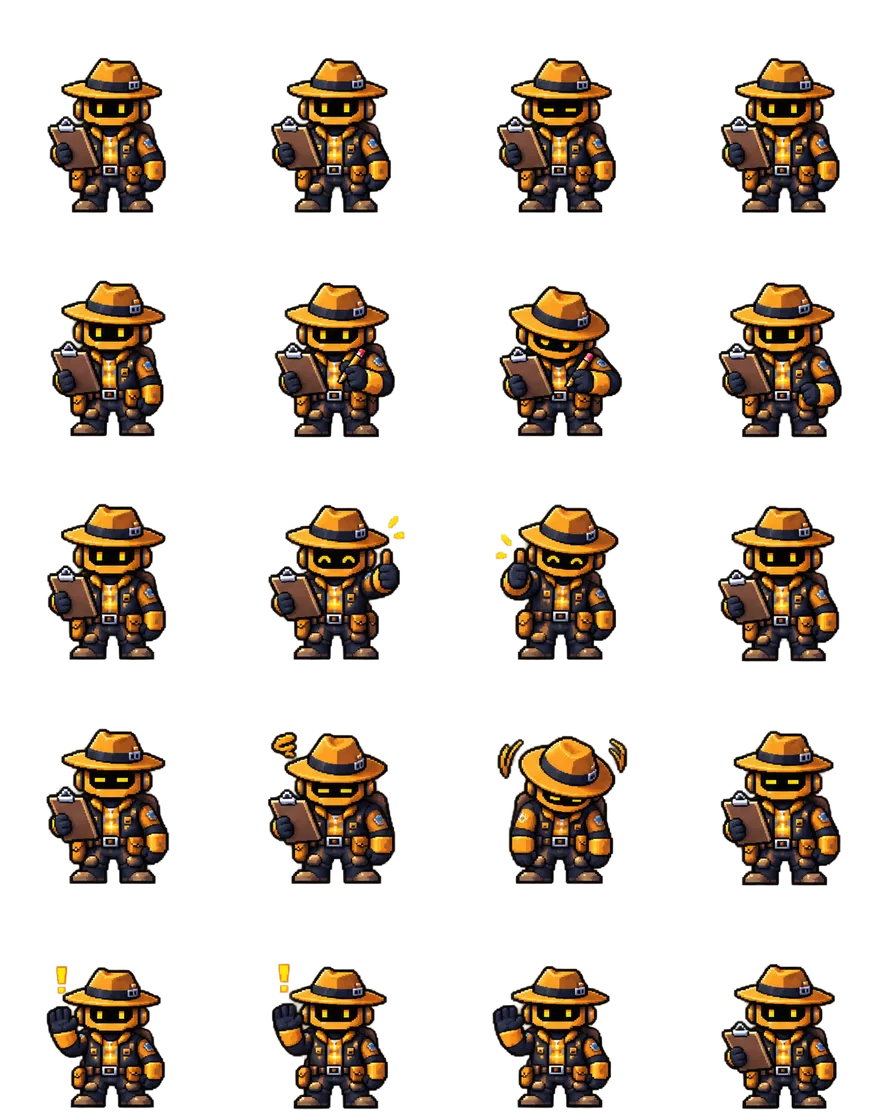
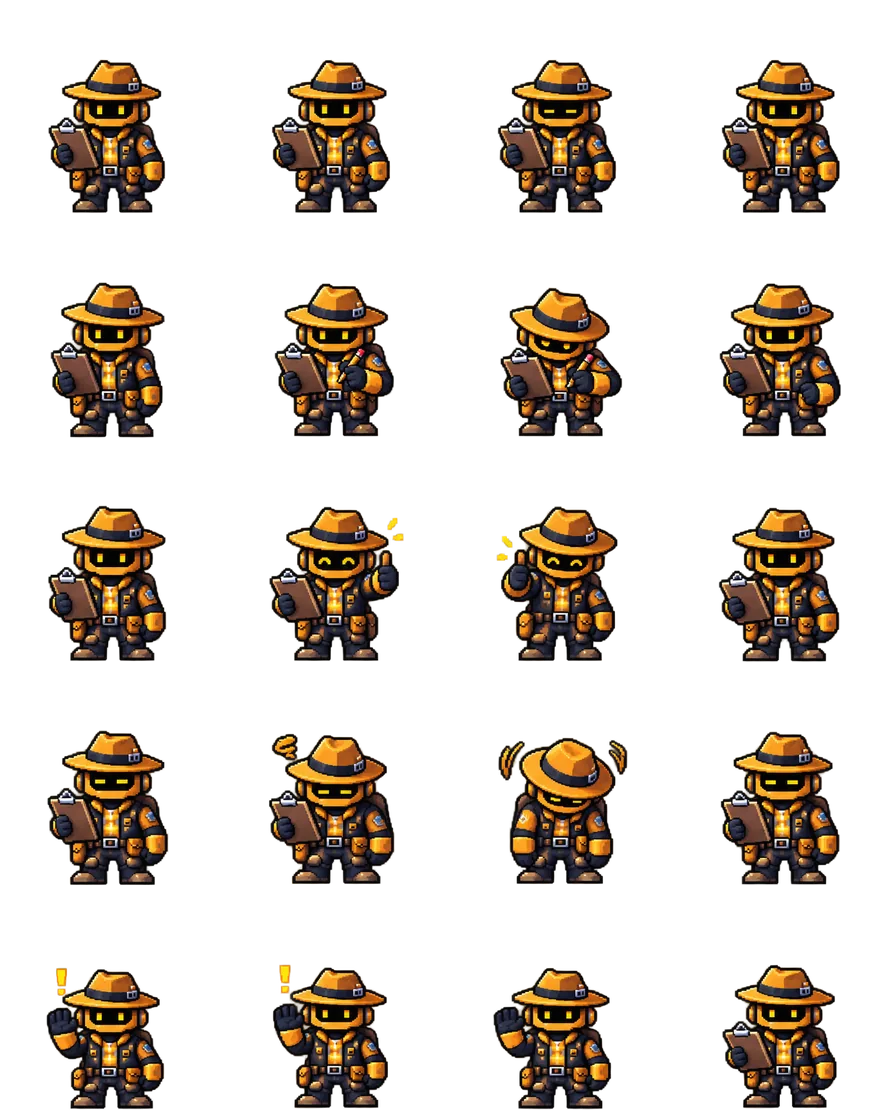
Build page relay faces at 64px; hover and scale fixes from review
The relay rail on the build page draws its agents at 64px (52px where
the card narrows, 44px on a phone, where the rail already scrolls), up
from 36/28 — the sheet cells keep headroom, so the old sizes left the
figures at ~29px.

Review fixes: the roster hover pass is layered after the agent's own
animation instead of replacing it, so it returns to the agent's pose
and leaving the card no longer replays the fist pump or the slump.
agent_art.py cuts a whole sheet before reporting a bad frame, so the
shared scale always sees every idle frame (it was missing three of
ATLAS's; the re-cut sheets are ~1% smaller).

diff --git a/frontend/components/agents/agents.css b/frontend/components/agents/agents.css
@@ -77,8 +77,7 @@
 /* jump-none puts all four frames on screen for a quarter of the cycle each:
    0, 33.3, 66.7, 100% is frame 1 to 4 of a 400%-wide sheet.
 
-   The loop, the one-shot and the hover pass are the same motion under three
-   names on purpose. A browser only restarts an animation when its name
+   The loop and the one-shot are the same motion under two names on purpose. A browser only restarts an animation when its name
    changes, so if "done" shared a name with "working", an agent finishing its
    phase would carry on the loop's clock — already seconds past the end of a
    760ms pass — and jump straight to the last frame without celebrating. */
@@ -90,10 +89,7 @@
   from { background-position-x: 0%; }
   to   { background-position-x: 100%; }
 }
-@keyframes sheet-hover {
-  from { background-position-x: 0%; }
-  to   { background-position-x: 100%; }
-}
+
 /* Rejected stops on frame 3 — the slump — and holds it. Frame 4 is the
    recovery, and a rejected agent hasn't recovered. */
 @keyframes sheet-to-slump {
@@ -252,10 +248,27 @@
 .agent-card:hover .sprite.motion-launch  { animation: sig-launch 1.2s steps(4, end) 1; }
 .agent-card:hover .sprite.motion-tally   { animation: sig-tally 1.6s steps(6, end) 1; }
 /* …and shows what they do: one pass of their working row. Anyone already
-   working or waiting on you keeps their loop — that is news, a hover isn't. */
-.agent-card:hover .sprite:not(.is-working):not(.is-gate) .sprite-sheet {
-  background-position-y: 25%;
-  animation: sheet-hover 800ms steps(4, jump-none) 1 both;
+   working or waiting on you keeps their loop — that is news, a hover isn't.
+   The pass is layered after the agent's own animation rather than replacing
+   it: the row lives in the keyframes and nothing is held afterwards, so the
+   figure returns to its own pose, and the own animation keeps its name in
+   the list — so leaving the card doesn't replay the fist pump or the slump. */
+@keyframes sheet-hover-row {
+  from { background-position: 0% 25%; }
+  to   { background-position: 100% 25%; }
+}
+.agent-card:hover .sprite.is-queued .sprite-sheet {
+  animation: sheet-hover-row 800ms steps(4, jump-none) 1;
+}
+.agent-card:hover .sprite.is-done .sprite-sheet {
+  animation:
+    sheet-once 760ms steps(4, jump-none) 1 both,
+    sheet-hover-row 800ms steps(4, jump-none) 1;
+}
+.agent-card:hover .sprite.is-rejected .sprite-sheet {
+  animation:
+    sheet-to-slump 600ms steps(3, jump-none) 1 both,
+    sheet-hover-row 800ms steps(4, jump-none) 1;
 }
 
 /* ===========================================================================
@@ -437,6 +450,12 @@
 }
 @keyframes relay-await { 50% { opacity: 0.25; } }
 
+/* The faces lead the rail at 64px; where the card narrows they step down
+   before eight steps stop fitting and the rail has to scroll. */
+@media (max-width: 1180px) {
+  .relay-step .sprite { --sprite-size: 52px !important; }
+}
+
 /* Under this width eight codenames cannot sit side by side without colliding, so
    the rail keeps the faces and the rails — which carry the state — and hands the
    names to the summary line above it. Still scrollable, still tappable, still a
@@ -445,7 +464,7 @@
   .relay { gap: 4px; padding-bottom: 12px; }
   .relay-step {
     /* 44px of finger, and the sprite is what you are aiming at. */
-    min-width: 44px;
+    min-width: 52px;
     padding: 8px 6px 6px;
     gap: 5px;
   }
@@ -453,7 +472,7 @@
      inline style, and a normal stylesheet declaration can never beat one. The
      inline value is the per-instance default; this is the breakpoint the file
      header always meant it to be overridable by. */
-  .relay-step .sprite { --sprite-size: 28px !important; }
+  .relay-step .sprite { --sprite-size: 44px !important; }
   .relay-name { display: none; }
 }
 
@@ -1633,7 +1652,6 @@
   .sprite.is-working .sprite-sheet,
   .sprite.is-done .sprite-sheet { background-position-x: 33.333%; }
   .sprite.is-rejected .sprite-sheet { background-position-x: 66.667%; }
-  .agent-card:hover .sprite:not(.is-working):not(.is-gate) .sprite-sheet { background-position-x: 0%; }
   /* The board holds still: the running light parks mid-cell, the gate cell
      stays lit. The outline and caret still say which phase has the work. */
   .board-tick.is-working { animation: none; background-position: 50% 0; }

diff --git a/frontend/app/(app)/projects/[id]/page.tsx b/frontend/app/(app)/projects/[id]/page.tsx
@@ -496,7 +496,7 @@ export default function ProjectPage({ params }: { params: { id: string } }) {
                   }}
                   title={`${agent.codename} · ${agent.role} — ${what}`}
                 >
-                  <AgentSprite agent={agent} size={36} state={SPRITE_STATE[ns]} />
+                  <AgentSprite agent={agent} size={64} state={SPRITE_STATE[ns]} />
                   <span className="relay-name">{agent.codename}</span>
                   <span className="relay-bar" />
                   <span className="sr-only">{`${agent.role} — ${what}. Go to this phase.`}</span>

diff --git a/frontend/scripts/agent_art.py b/frontend/scripts/agent_art.py
@@ -208,6 +208,7 @@ def frames(sheet: Image.Image):
     ink_x = [sum(1 for y in range(0, H, 2) if alpha[x, y] > 40) for x in range(W)]
     xs = [0] + cut_lines(ink_x, COLS, round(W / COLS * 0.35)) + [W]
     idle_h = {}
+    bad = []
     for c in range(COLS):
         x0, x1 = xs[c], xs[c + 1]
         ink_y = [sum(1 for x in range(x0, x1) if alpha[x, y] > 40) for y in range(H)]
@@ -240,12 +241,15 @@ def frames(sheet: Image.Image):
             elif bbox[3] >= H - 2 and (bbox[3] - bbox[1]) < 0.8 * idle_h[c]:
                 # Touching the edge alone isn't enough — most sheets put the soles
                 # on the last pixel. A figure clearly shorter than its idle self
-                # has lost its feet, and that can't be repaired here.
-                raise SystemExit(
-                    f"row {r + 1}, frame {c + 1} runs off the bottom of the sheet — "
-                    "regenerate it with a margin on every edge"
-                )
+                # has lost its feet, and that can't be repaired here. Reported
+                # once the whole sheet is cut, so the idle row is always complete.
+                bad.append(f"row {r + 1}, frame {c + 1}")
             yield r, c, frame, anchor, bbox
+    if bad:
+        raise SystemExit(
+            f"{', '.join(bad)} run off the bottom of the sheet — "
+            "regenerate it with a margin on every edge"
+        )
 
 
 def place(frame, anchor, scale, cell=CELL):
@@ -294,8 +298,8 @@ def main():
                 cut[name].append(f)
         except SystemExit as e:
             # Fatal only for a sheet being written; for the others the idle
-            # row (cut first) is all the shared scale needs.
-            if name in only or not any(r == 0 for r, *_ in cut[name]):
+            # row is all the shared scale needs, and it is always cut in full.
+            if name in only or sum(1 for r, *_ in cut[name] if r == 0) < COLS:
                 raise SystemExit(f"{sheet_file}: {e}") from None
             print(f"skip {name}: {e}")
             continue
